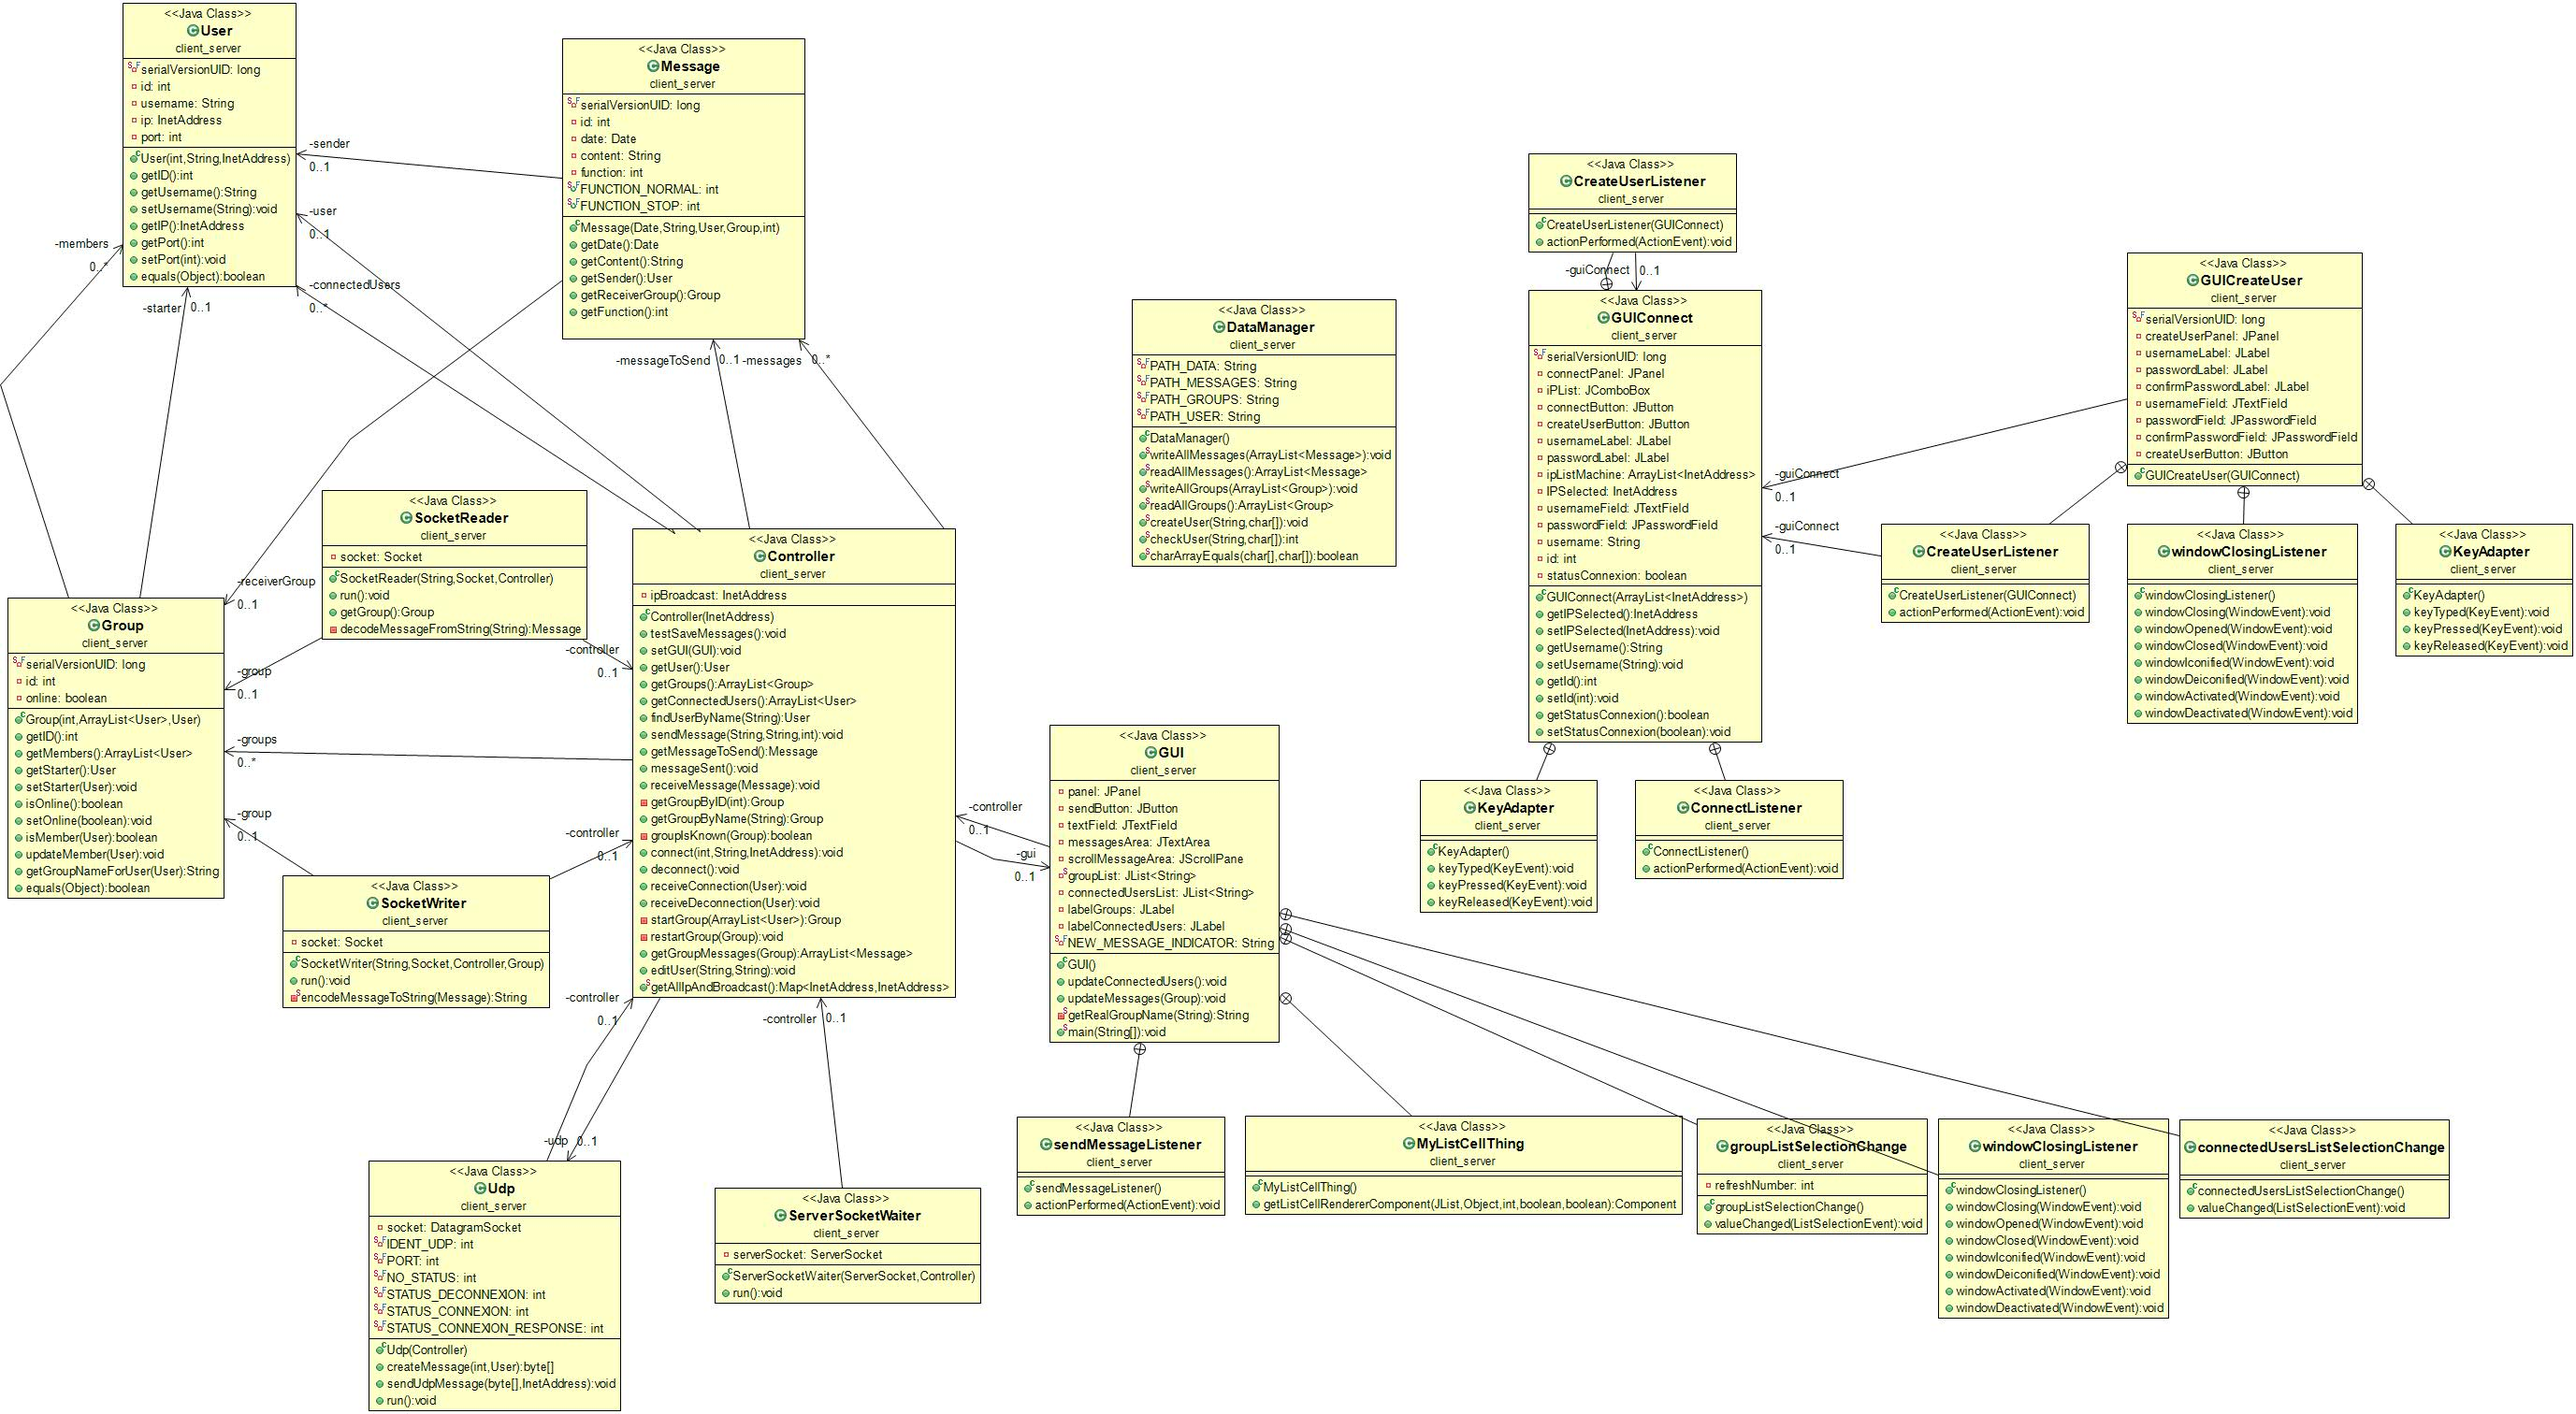
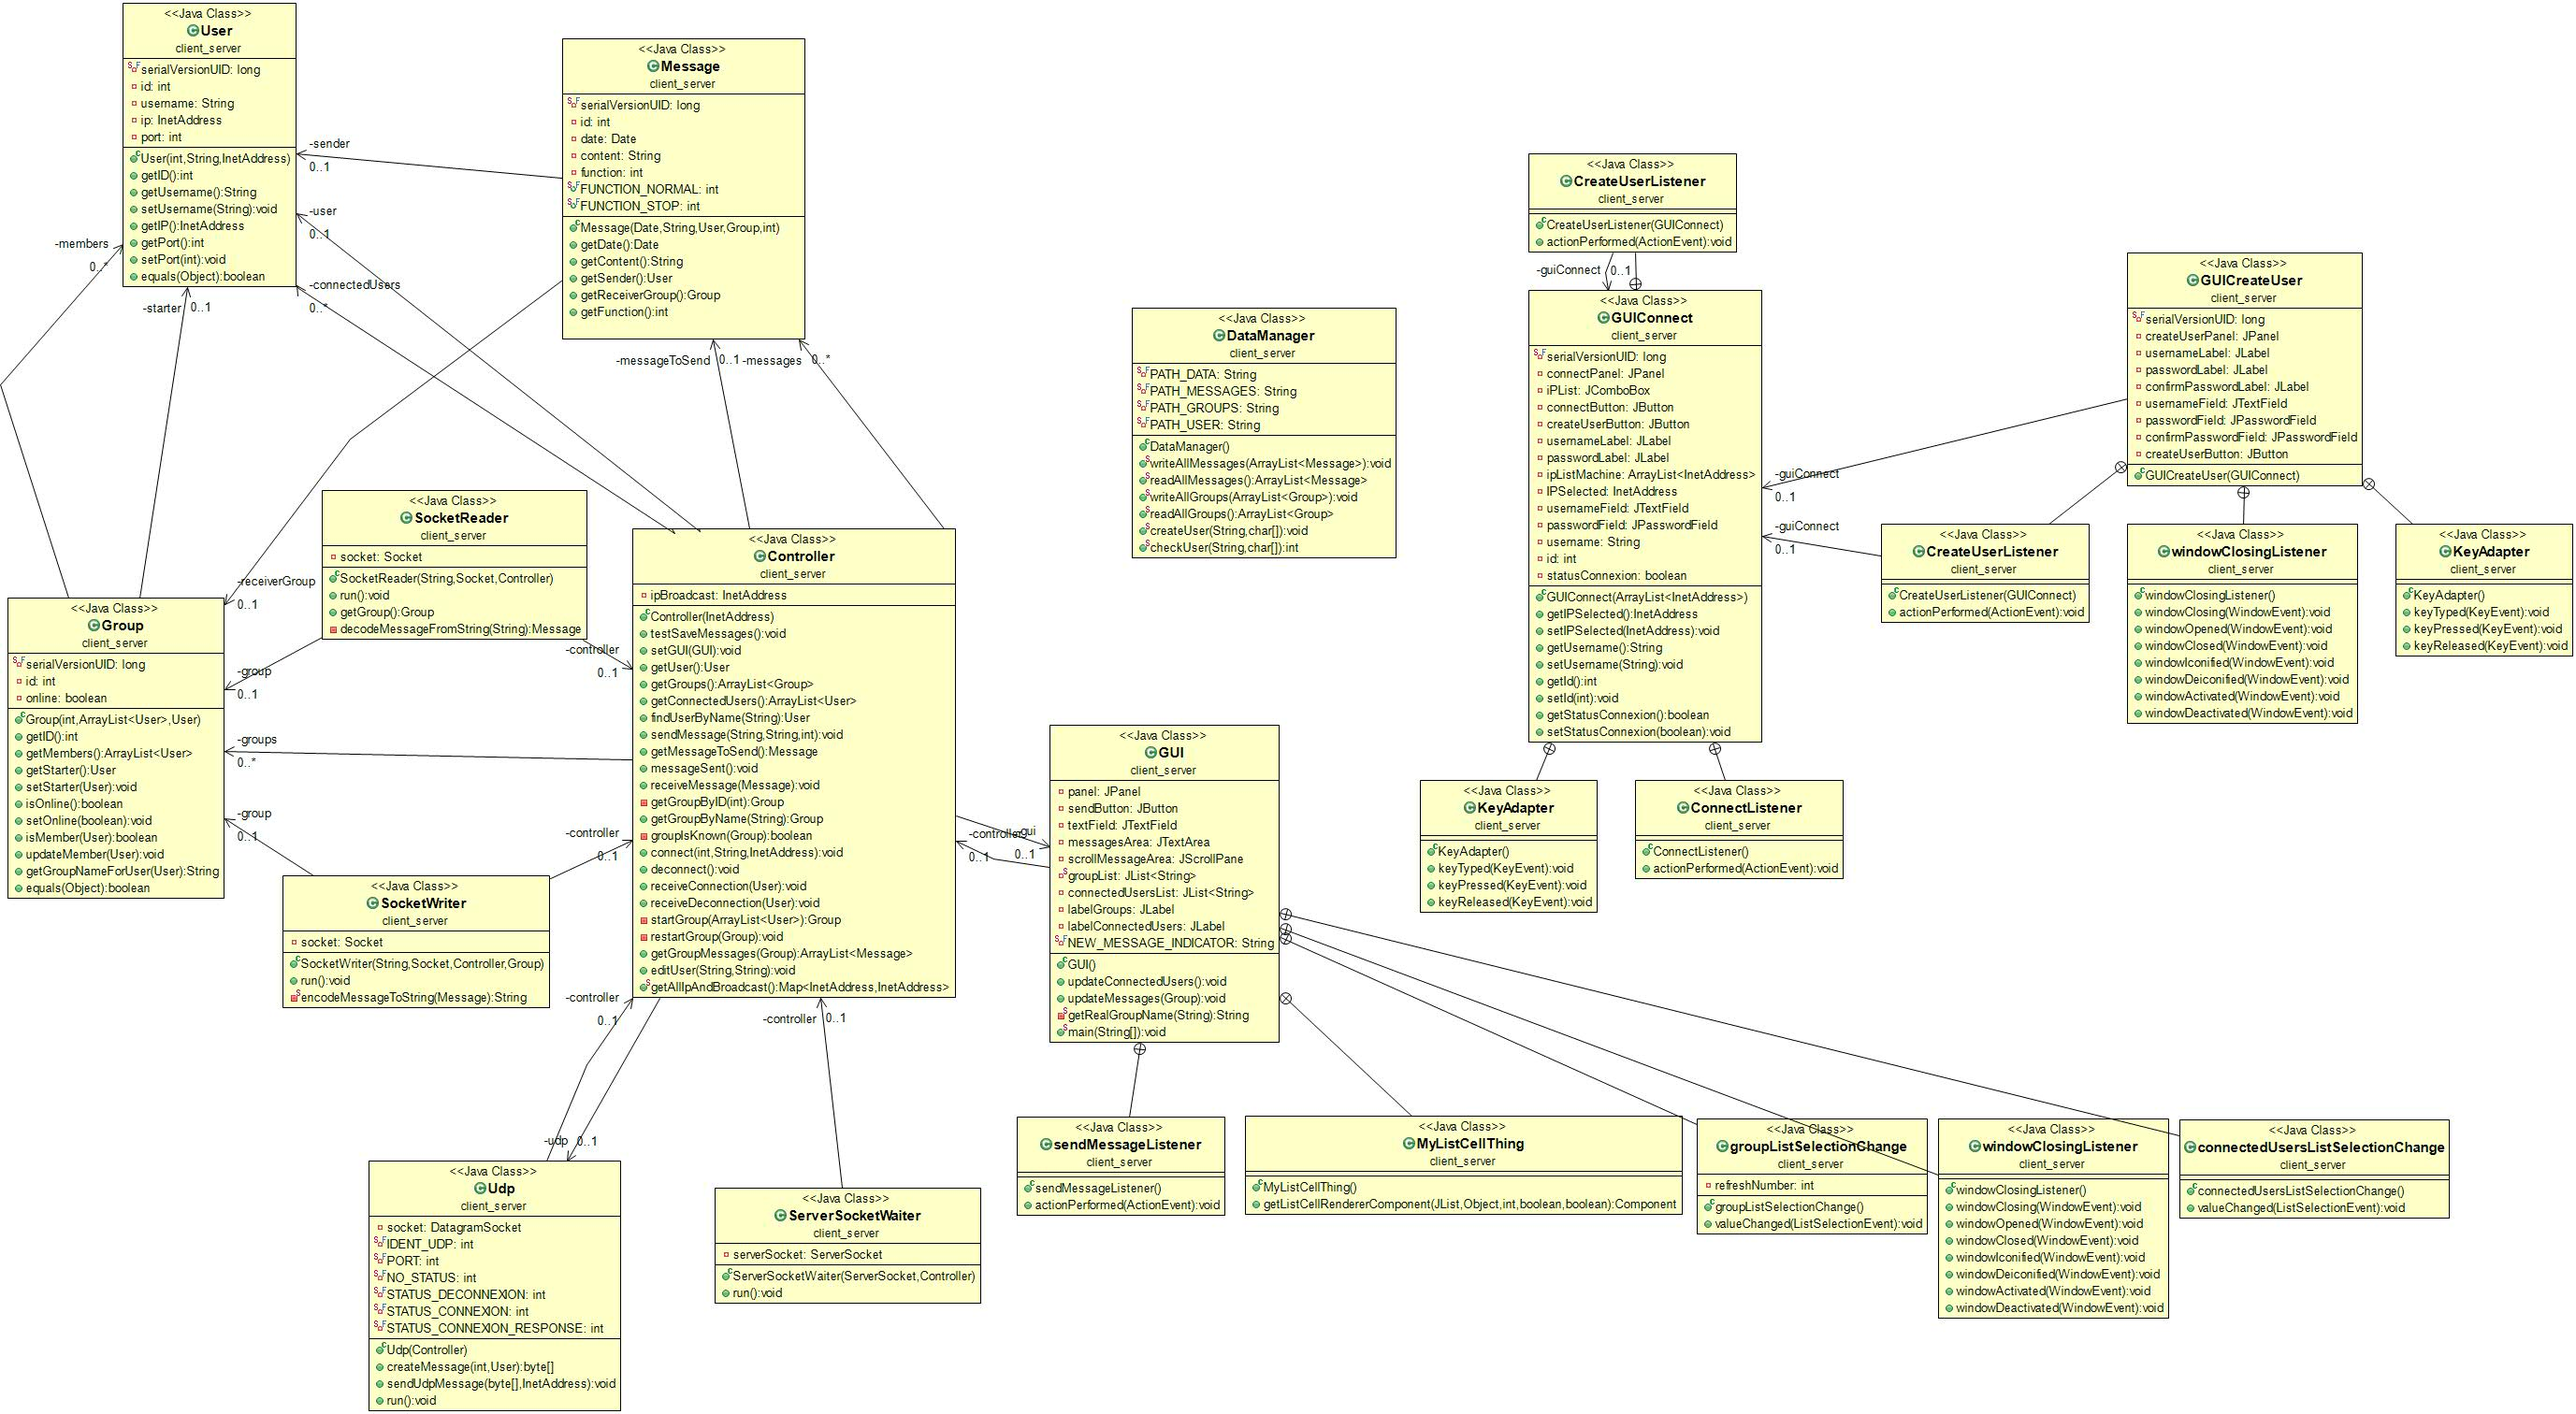
hashage du mot de passe

Changed region(s): [[0.4372, 0.1865, 0.5309, 0.4041], [0.3747, 0.5595, 0.406, 0.6217], [0.5933, 0.1865, 0.6245, 0.2176]]

diff --git a/src/client_server/DataManager.java b/src/client_server/DataManager.java
@@ -8,7 +8,10 @@ import java.io.FileOutputStream;
 import java.io.IOException;
 import java.io.ObjectInputStream;
 import java.io.ObjectOutputStream;
+import java.security.MessageDigest;
+import java.security.NoSuchAlgorithmException;
 import java.util.ArrayList;
+import java.util.Arrays;
 import java.util.Random;
 
 /**
@@ -151,8 +154,9 @@ public class DataManager {
 	 * @param username Username de l'utilisateur
 	 * @param password Password de l'utilisateur
 	 * @throws IOException
+	 * @throws NoSuchAlgorithmException 
 	 */
-	public static void createUser(String username, char[] password) throws IOException {
+	public static void createUser(String username, char[] password) throws IOException, NoSuchAlgorithmException {
 		
 		// TODO Gestion erreur
 		
@@ -171,8 +175,15 @@ public class DataManager {
 		
 		out.writeInt(id);
 		out.writeObject(username);
-		// TODO : Chiffrer le mot de passe
-		out.writeObject(password);
+		
+		// Chiffrement du mot de passe avec MD5
+		byte[] passwordBytes = new byte[password.length];
+		for (int i = 0; i < passwordBytes.length; i++)
+			passwordBytes[i] = (byte) password[i];
+		
+		MessageDigest md = MessageDigest.getInstance("MD5");
+		byte[] passwordHashed = md.digest(passwordBytes);
+		out.writeObject(passwordHashed);
 		
 		out.close();
 		file.close();
@@ -185,8 +196,9 @@ public class DataManager {
 	 * @return L'ID de l'utilisateur si les donnees sont correctes, -1 sinon
 	 * @throws IOException
 	 * @throws ClassNotFoundException
+	 * @throws NoSuchAlgorithmException 
 	 */
-	public static int checkUser(String username, char[] password) throws IOException, ClassNotFoundException {
+	public static int checkUser(String username, char[] passwordEnter) throws IOException, ClassNotFoundException, NoSuchAlgorithmException {
 
 		File groupsFile = new File(PATH_USER);
 
@@ -197,9 +209,16 @@ public class DataManager {
 
 			int id = (int) in.readInt();
 			String usernameFile = (String) in.readObject();
-			char[] passwordFile = (char[]) in.readObject();
+			byte[] passwordFileHashed = (byte[]) in.readObject();
+			
+			byte[] passwordEnterBytes = new byte[passwordEnter.length];
+			for (int i = 0; i < passwordEnterBytes.length; i++)
+				passwordEnterBytes[i] = (byte) passwordEnter[i];
+			
+			MessageDigest md = MessageDigest.getInstance("MD5");
+			byte[] passwordEnterHashed = md.digest(passwordEnterBytes);
 
-			if (usernameFile.equals(username) && charArrayEquals(passwordFile, password)) {
+			if (usernameFile.equals(username) && Arrays.equals(passwordFileHashed, passwordEnterHashed)) {
 				in.close();
 				return id;
 			}
@@ -209,27 +228,4 @@ public class DataManager {
 		
 		return -1;
 	}
-	
-	/**
-	 * Permet de voir si deux tableaux de caracteres sont egaux
-	 * @param char1 Tableau 1
-	 * @param char2 Tableau 2
-	 * @return True si egaux, False sinon
-	 */
-	// TODO Ailleurs ? Override charArray ?
-	public static boolean charArrayEquals(char[] char1, char[] char2) {
-		if (char1.length != char2.length)
-			return false;
-		
-		else {
-			
-			for(int i = 0; i < char1.length; i++) {
-				if (char1[i] != char2[i])
-					return false;
-			}
-			
-		}
-		
-		return true;
-	}		
 }

diff --git a/src/client_server/GUICreateUser.java b/src/client_server/GUICreateUser.java
@@ -11,6 +11,8 @@ import java.awt.event.KeyListener;
 import java.awt.event.WindowEvent;
 import java.awt.event.WindowListener;
 import java.io.IOException;
+import java.security.NoSuchAlgorithmException;
+import java.util.Arrays;
 
 import javax.swing.JButton;
 import javax.swing.JFrame;
@@ -19,6 +21,8 @@ import javax.swing.JOptionPane;
 import javax.swing.JPanel;
 import javax.swing.JPasswordField;
 import javax.swing.JTextField;
+
+import client_server.GUIConnect.ConnectListener;
 
 /**
  * Fenetre de creation de l'utilisateur
@@ -72,16 +76,19 @@ public class GUICreateUser extends JFrame {
 
 		usernameField = new JTextField();
 		usernameField.addKeyListener(new KeyAdapter());
+		usernameField.addActionListener(new CreateUserListener(this.guiConnect));
 		c.weightx = 0.9;
 		c.gridx = 1;
 		c.gridy = 0;
 		createUserPanel.add(usernameField, c);
 
 		passwordField = new JPasswordField();
+		passwordField.addActionListener(new CreateUserListener(this.guiConnect));
 		c.gridy = 1;
 		createUserPanel.add(passwordField, c);
 
 		confirmPasswordField = new JPasswordField();
+		confirmPasswordField.addActionListener(new CreateUserListener(this.guiConnect));
 		c.gridy = 2;
 		createUserPanel.add(confirmPasswordField, c);
 
@@ -118,7 +125,7 @@ public class GUICreateUser extends JFrame {
 			char[] confirmPassword = confirmPasswordField.getPassword();
 
 			if (password.length != 0 && username.length() != 0 && confirmPassword.length != 0) {
-				if (DataManager.charArrayEquals(password, confirmPassword)) {
+				if (Arrays.equals(password, confirmPassword)) {
 					try {
 						DataManager.createUser(username, password);
 						setVisible(false);
@@ -126,14 +133,19 @@ public class GUICreateUser extends JFrame {
 					} catch (IOException e1) {
 						// TODO Auto-generated catch block
 						e1.printStackTrace();
+					} catch (NoSuchAlgorithmException e1) {
+						// TODO Auto-generated catch block
+						e1.printStackTrace();
 					}
 				} else {
 					// TODO Gerer les erreurs ailleurs ?
+					setAlwaysOnTop(false);
 					JOptionPane.showMessageDialog(null, "Mot de passe incorrect", "Erreur", JOptionPane.ERROR_MESSAGE);
 					passwordField.setText("");
 					confirmPasswordField.setText("");
 				}
 			} else {
+				setAlwaysOnTop(false);
 				JOptionPane.showMessageDialog(null, "Champs vides", "Erreur", JOptionPane.ERROR_MESSAGE);
 			}
 		}

diff --git a/src/client_server/GUIConnect.java b/src/client_server/GUIConnect.java
@@ -3,6 +3,7 @@ package client_server;
 import java.awt.Dimension;
 import java.awt.GridBagConstraints;
 import java.awt.GridBagLayout;
+import java.awt.HeadlessException;
 import java.awt.Insets;
 import java.awt.event.ActionEvent;
 import java.awt.event.ActionListener;
@@ -11,6 +12,7 @@ import java.awt.event.KeyListener;
 import java.io.IOException;
 import java.net.InetAddress;
 import java.net.SocketException;
+import java.security.NoSuchAlgorithmException;
 import java.util.ArrayList;
 
 import javax.swing.JButton;
@@ -199,6 +201,12 @@ public class GUIConnect extends JFrame {
 					JOptionPane.showMessageDialog(null, "Erreur connexion", "Erreur", JOptionPane.ERROR_MESSAGE);
 				}
 			} catch (ClassNotFoundException | IOException e1) {
+				// TODO Auto-generated catch block
+				e1.printStackTrace();
+			} catch (HeadlessException e1) {
+				// TODO Auto-generated catch block
+				e1.printStackTrace();
+			} catch (NoSuchAlgorithmException e1) {
 				// TODO Auto-generated catch block
 				e1.printStackTrace();
 			}
